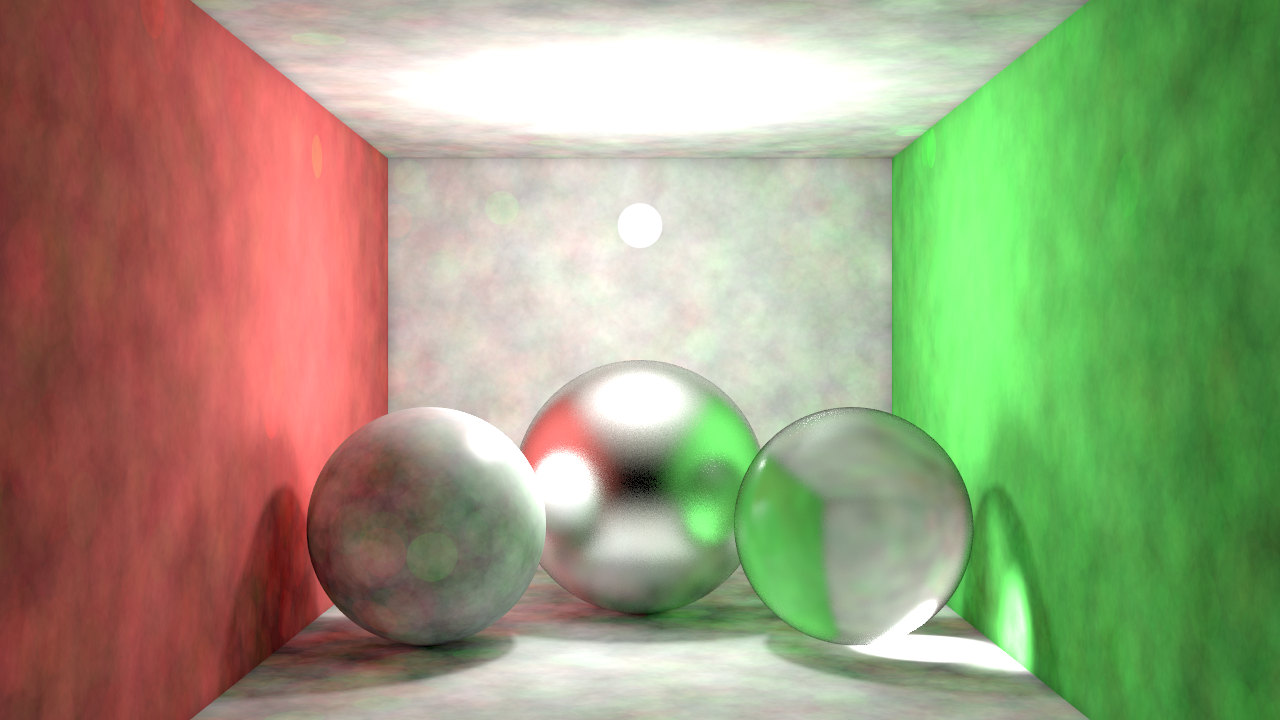
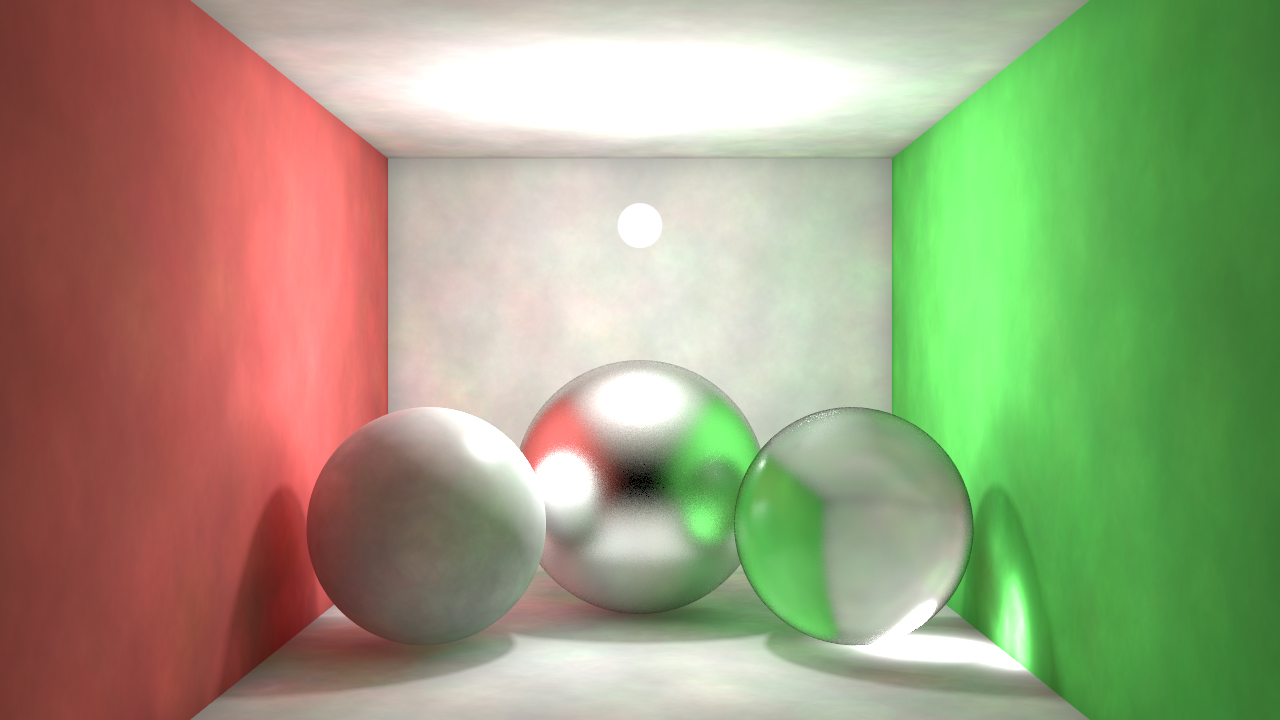
Stopped double counting caustics for indirect lighting

diff --git a/src/main.cpp b/src/main.cpp
@@ -291,8 +291,7 @@ int main()
 
     // Fill in photon map
 
-    // In this case, just record first bounce
-    // TODO: Terminate when it hits anything. Only record if IsPhotonSurface()
+    // Direct only
     if (!doingIndirectWithPhotonMapping && doingDirectWithPhotonMapping)
     {
         const Light* light{ renderer.GetScene().lights[0] };
@@ -315,6 +314,7 @@ int main()
                 break;
         }
     }
+    // Direct + indirect
     else if (doingIndirectWithPhotonMapping && doingDirectWithPhotonMapping)
     {
         const Light* light{ renderer.GetScene().lights[0] };
@@ -354,6 +354,7 @@ int main()
             }
         }
     }
+    // Indirect. No direct
     else if (doingIndirectWithPhotonMapping)
     {
         const Light* light{ renderer.GetScene().lights[0] };
@@ -383,7 +384,7 @@ int main()
 
                 if (firstHit)
                 {
-                    if (!bounce)
+                    if (!bounce || (doingCaustics && info.lobe != DirSampler::Lobe::DIFFUSE))
                         break;
 
                     firstHit = false;

diff --git a/src/materials.cpp b/src/materials.cpp
@@ -51,7 +51,7 @@ Color MtlBlinn::Shade(ShadeInfo const &shadeInfo) const
     {
         Color lightIntensity;
         Vec3f lightDir;
-        renderer.GetPhotonMap()->EstimateIrradiance<128>(lightIntensity, lightDir, 1.0f, shadeInfo.P(), normal, 0.5f);
+        renderer.GetPhotonMap()->EstimateIrradiance<128>(lightIntensity, lightDir, 3.0f, shadeInfo.P(), normal, 0.5f);
 
         if (IsPhotonSurface())
             finalColor += (1.0f / M_PI) * diffuseColor * lightIntensity;
@@ -69,7 +69,7 @@ Color MtlBlinn::Shade(ShadeInfo const &shadeInfo) const
     {
         Color lightIntensity;
         Vec3f lightDir;
-        renderer.GetCausticsMap()->EstimateIrradiance<128>(lightIntensity, lightDir, 1.0f, shadeInfo.P(), normal, 0.5f);
+        renderer.GetCausticsMap()->EstimateIrradiance<128>(lightIntensity, lightDir, 3.0f, shadeInfo.P(), normal, 0.5f);
 
         if (IsPhotonSurface())
             finalColor += (1.0f / M_PI) * diffuseColor * lightIntensity;

diff --git a/src/materials.h b/src/materials.h
@@ -99,6 +99,9 @@ public:
             si.lobe = DirSampler::Lobe::DIFFUSE;
             si.mult = diffuse.GetValue();
             si.prob = diffuseProb;
+            //const float geometryTerm{ sInfo.N() % sInfo.V() };
+            //si.mult = diffuse.GetValue() * geometryTerm / M_PI;
+            //si.prob /= 2.0f * M_PI;
 
             // Direction
             const float r1{ sInfo.RandomFloat() };

diff --git a/src/lights.h b/src/lights.h
@@ -13,6 +13,7 @@
 #define _LIGHTS_H_INCLUDED_
 
 #include "renderer.h"
+#include <iostream>
 
 //-------------------------------------------------------------------------------
 
